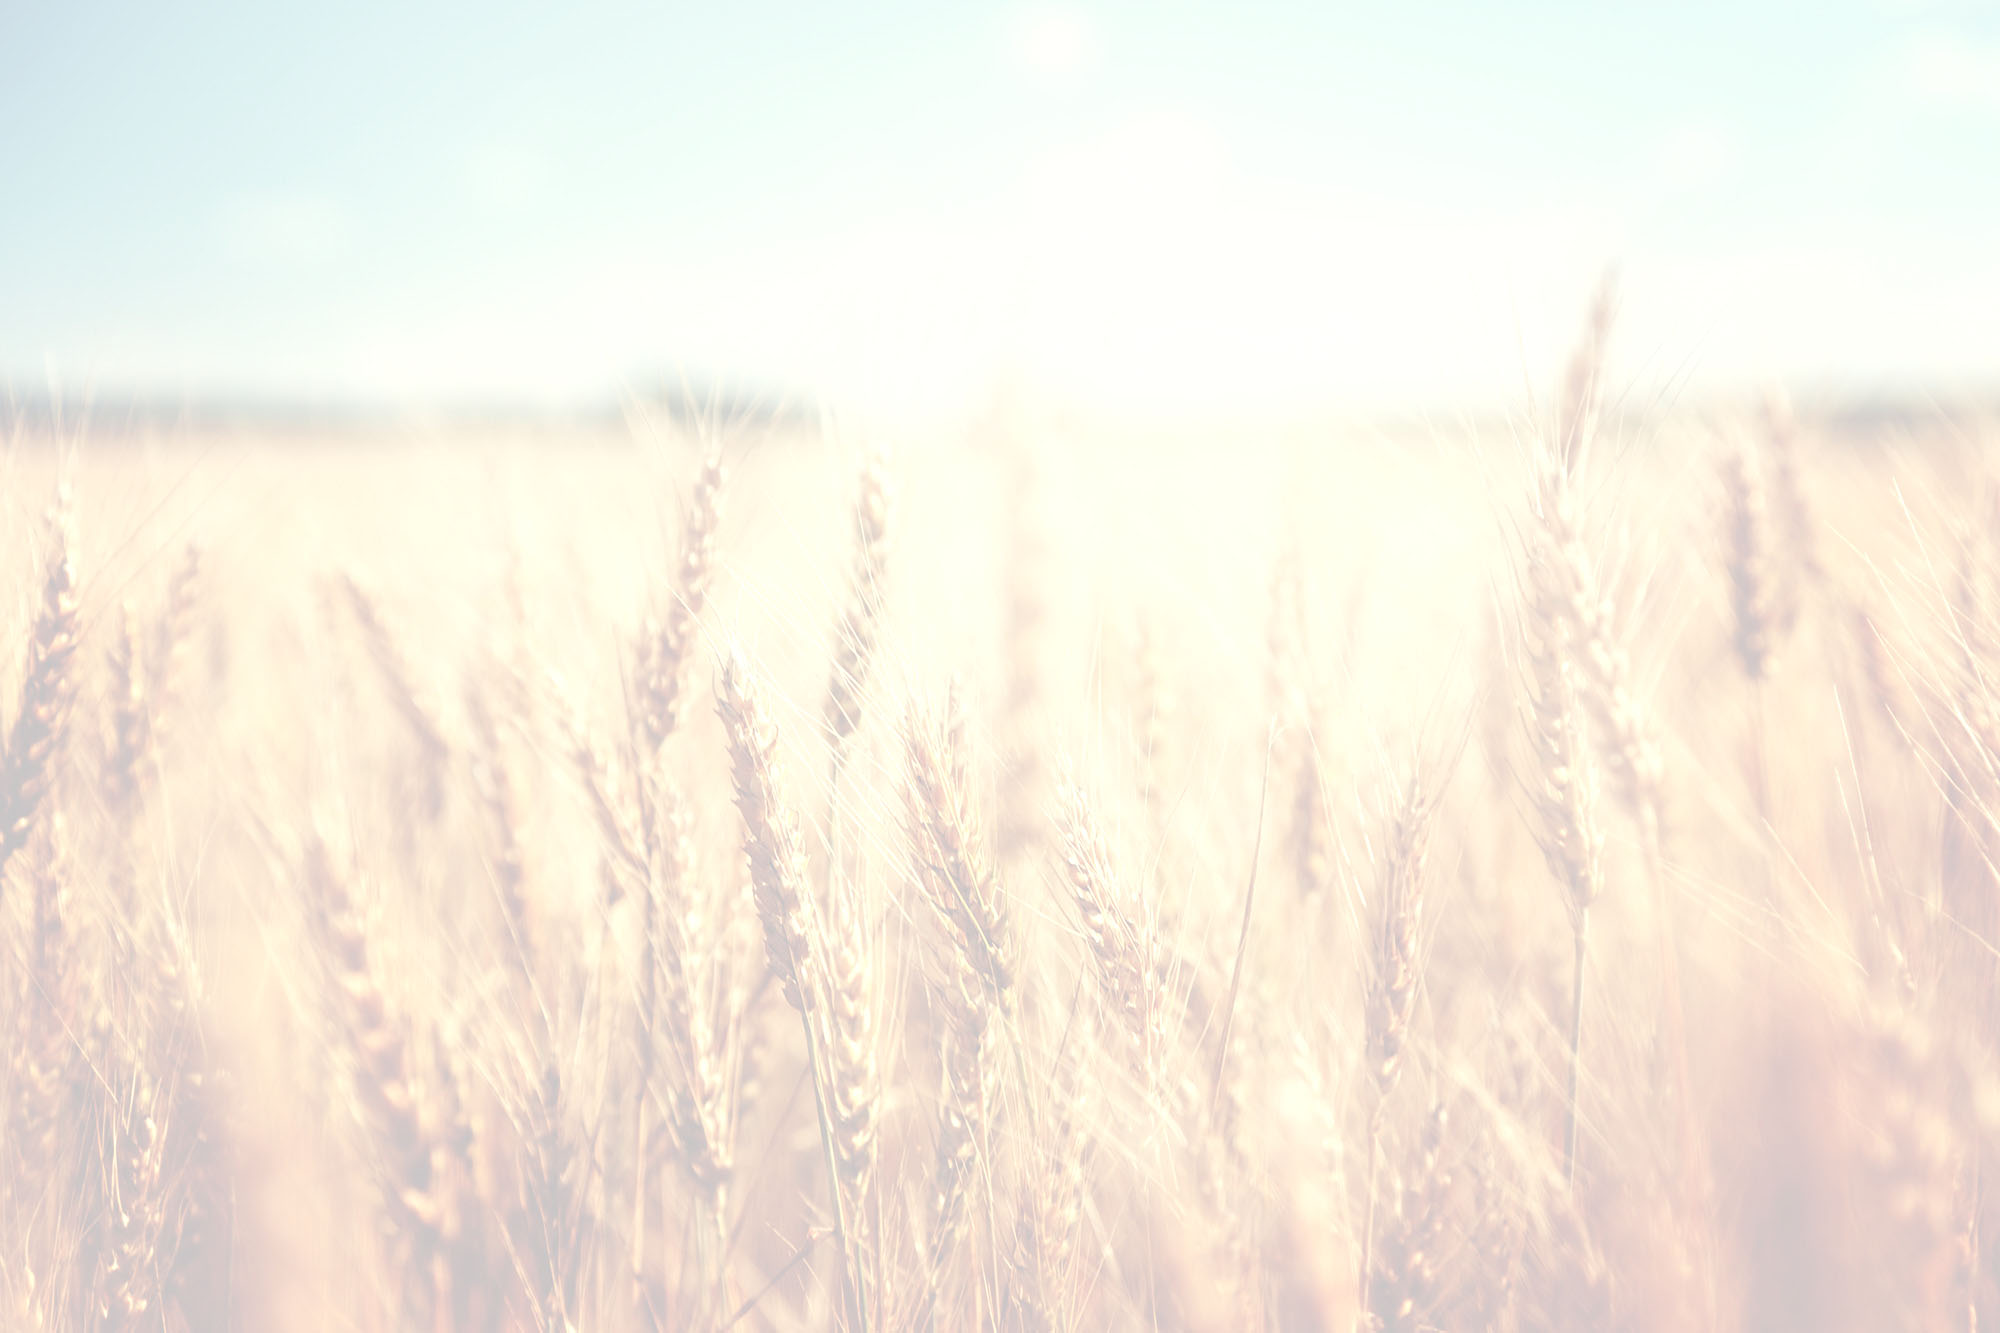
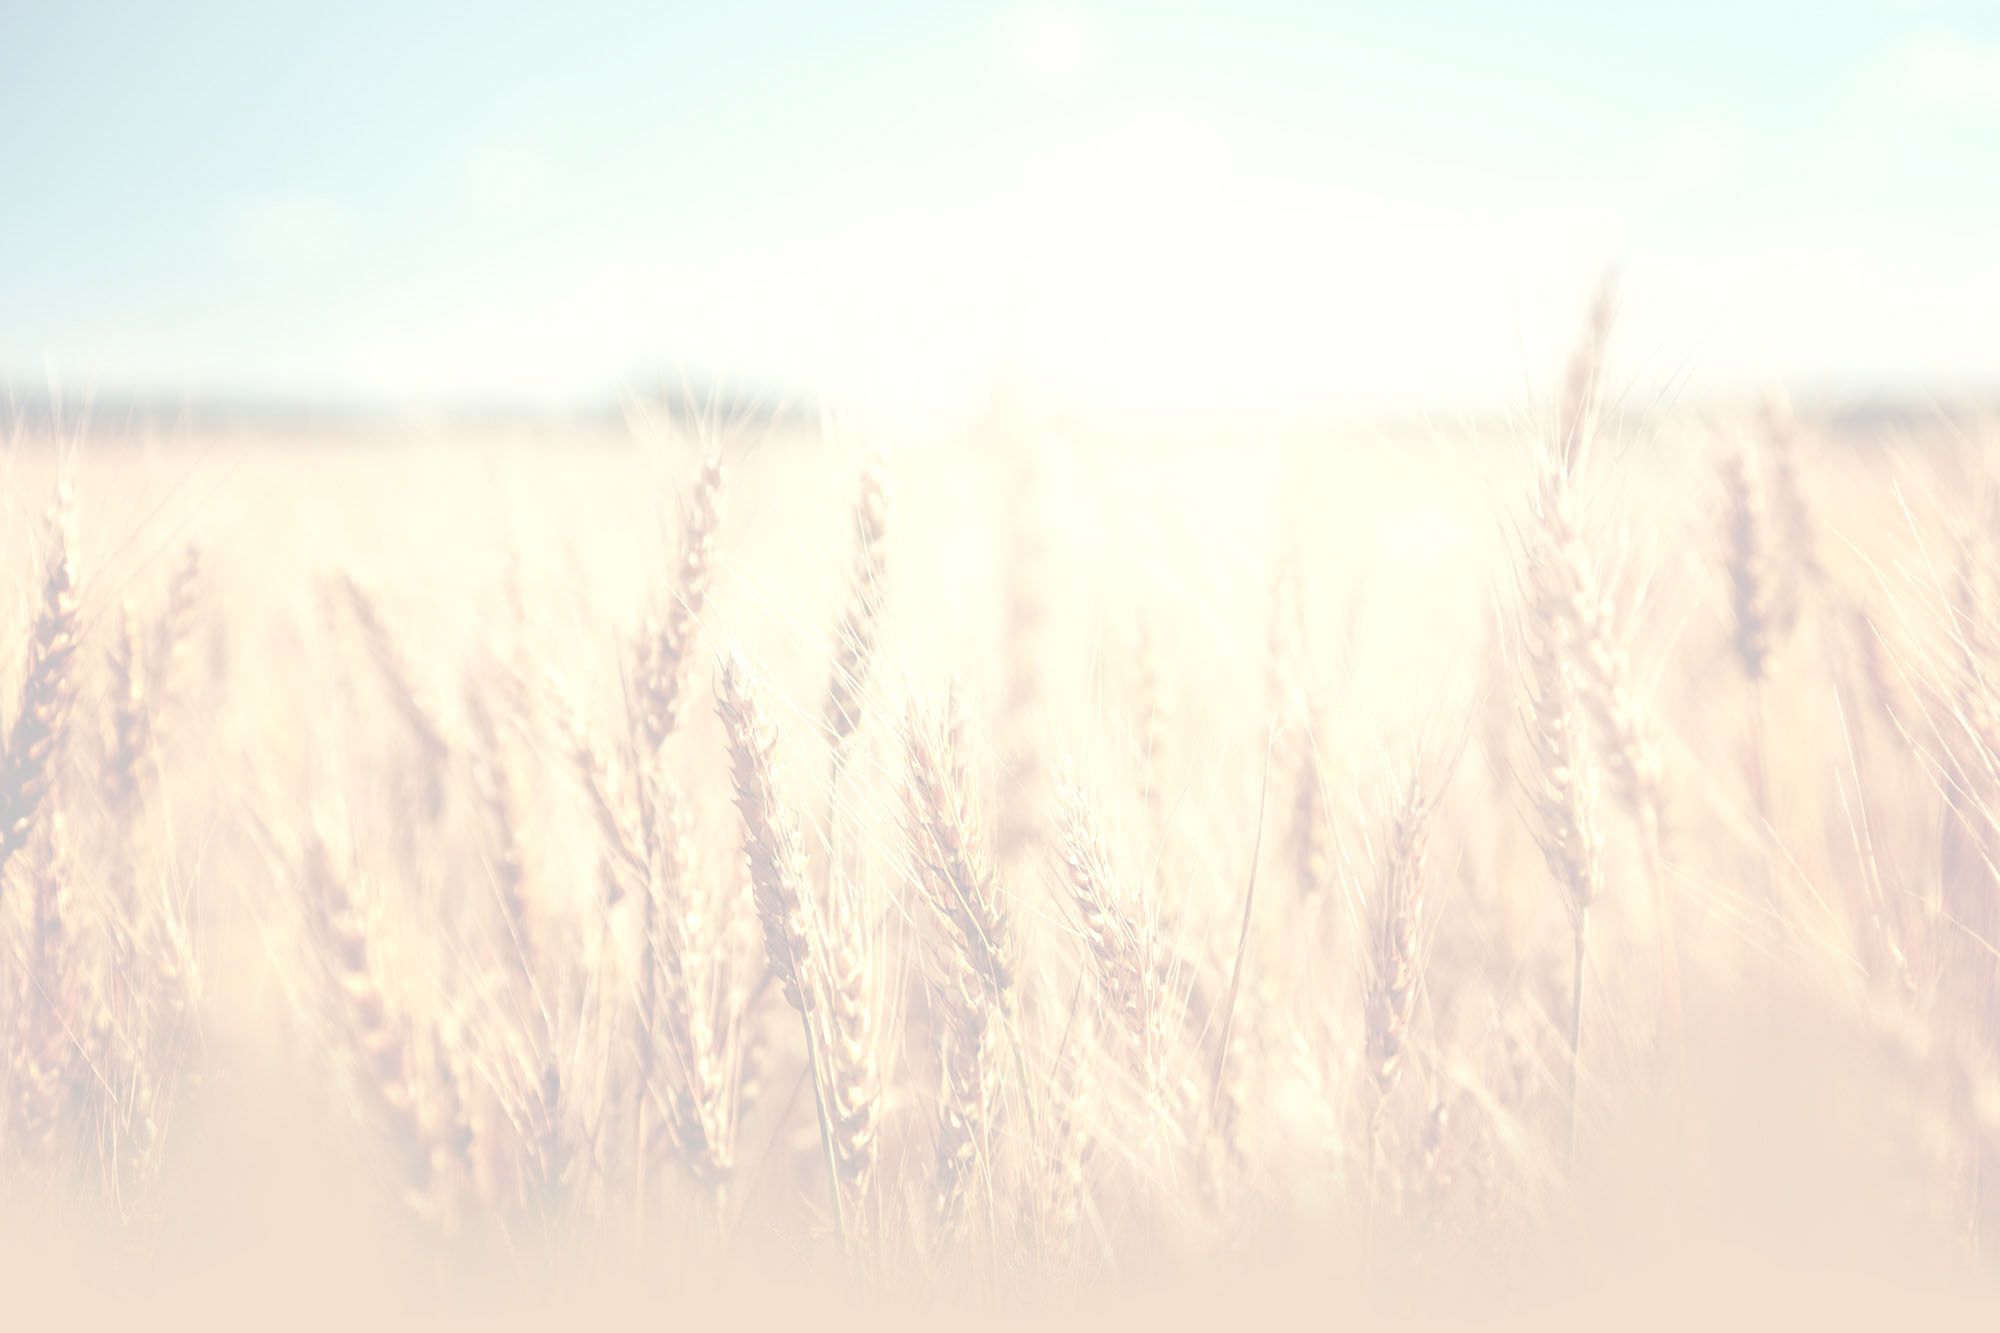
Dégradé sur img de fond agenda
git-svn-id: https://svn.pyrat.net/svn/serviteurs/trunk@157 c978bd7f-2d90-459b-b062-dac6e5dd73aa

diff --git a/squelserviteurs/_zones/agenda.html b/squelserviteurs/_zones/agenda.html
@@ -1,5 +1,5 @@
 <div class="zone-arriere avec-padding" id="ancre_agenda"
-    style="background: rgb(241, 225, 206) url([(#CHEMIN{css/img/AdobeStock_74641866.jpg})]) no-repeat top center"
+    style="background: #EDE0CE url([(#CHEMIN{css/img/AdobeStock_74641866.jpg})]) no-repeat top center"
     data-enllax-ratio="0.2"
      >
   <div class="agenda row column">
